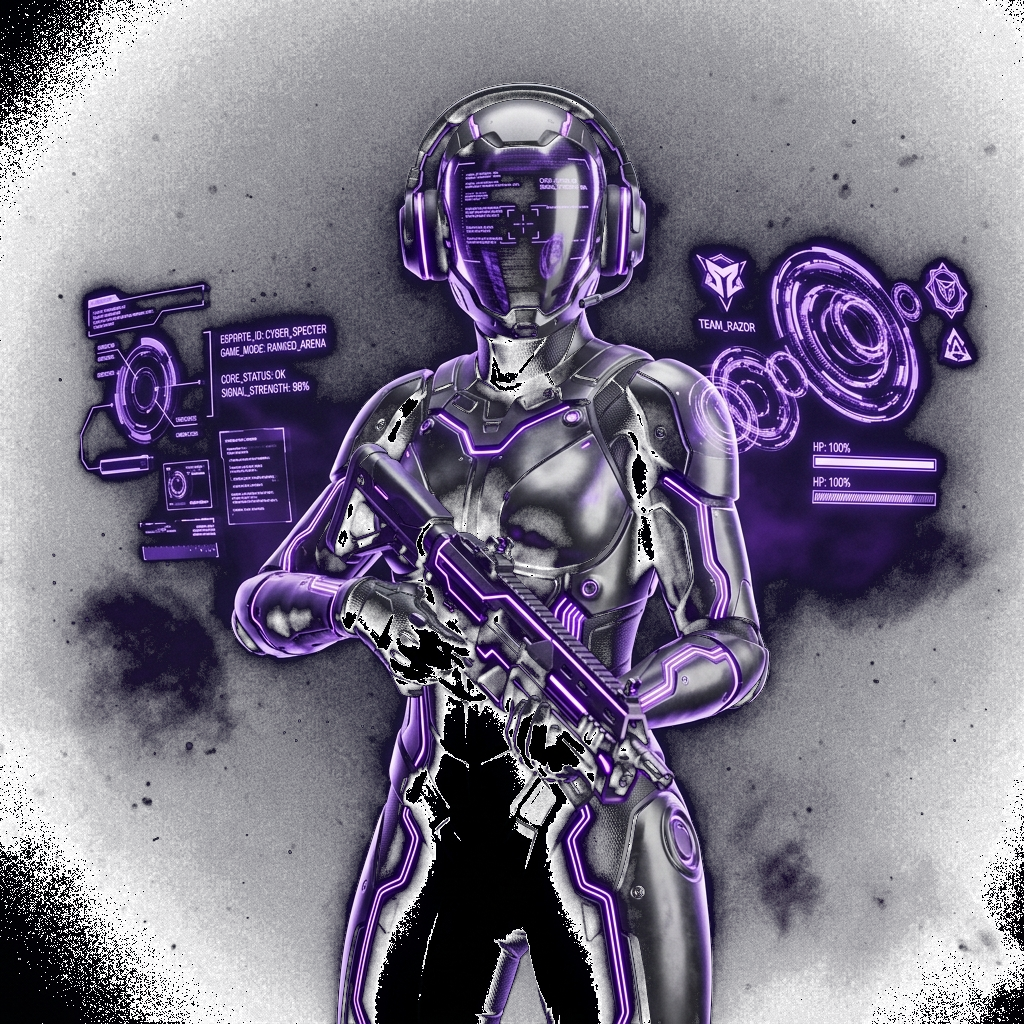
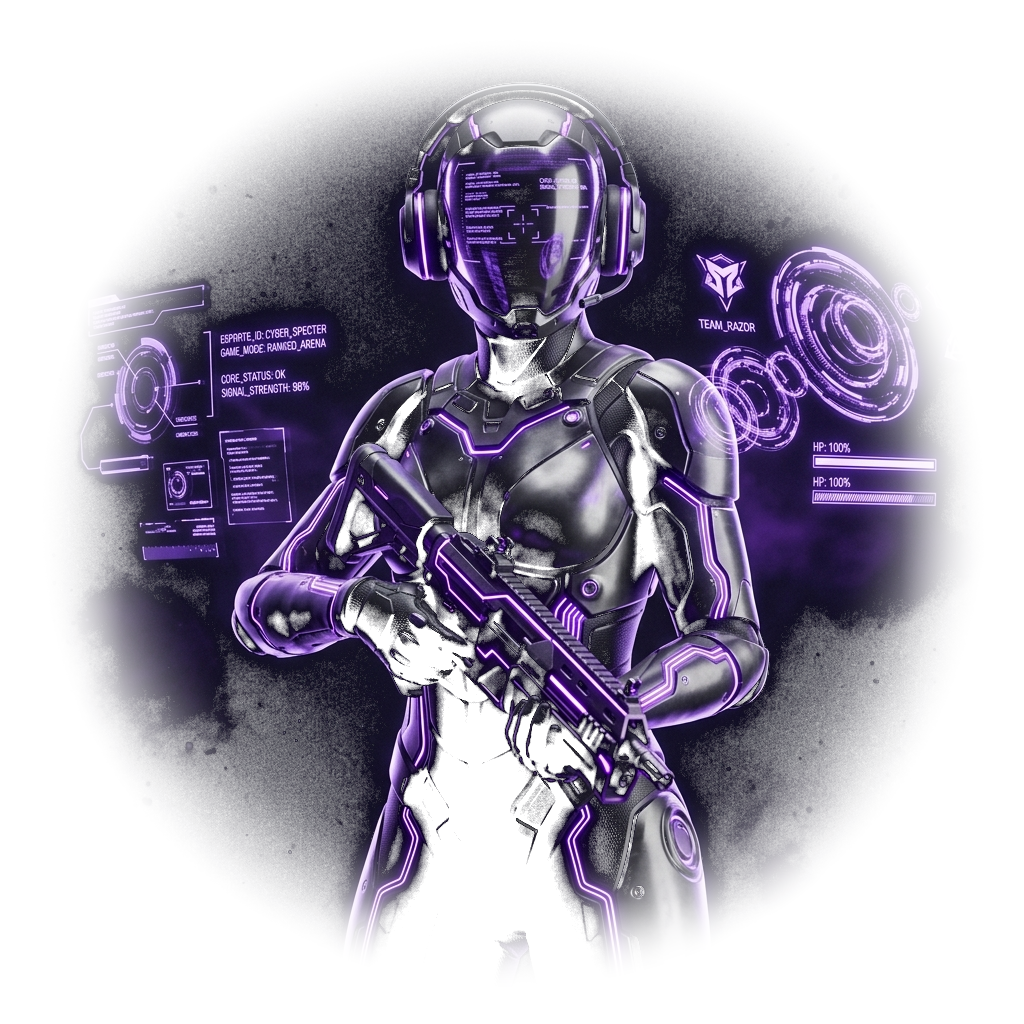
fix(ui): apply seamless radial blending to hero image and verify all services against master document

diff --git a/src/components/client/ClientHomePage.tsx b/src/components/client/ClientHomePage.tsx
@@ -269,14 +269,18 @@ export const ClientHomePage: React.FC<ClientHomePageProps> = ({
               <div className="w-4 h-0.5 bg-purple-500 ml-auto mt-2" />
             </div>
 
-            {/* Futuristic Tech-Gaming Operative Visual */}
-            <div className="relative z-0 flex items-center justify-center">
+            {/* Futuristic Tech-Gaming Operative Visual - Seamlessly Blended */}
+            <div className="relative z-0 flex items-center justify-center w-full max-w-[430px]">
+              {/* Diffuse ambient purple glow behind operative */}
+              <div className="absolute inset-0 bg-gradient-to-t from-purple-700/40 via-fuchsia-600/20 to-transparent blur-[70px] rounded-full pointer-events-none transform scale-110" />
+              
               <img
                 src="/assets/hires/vib_tech_gaming_hero.png"
                 alt="VIB Tech-Gaming Operative"
-                className="relative z-10 w-full max-w-[430px] h-auto object-contain drop-shadow-[0_0_35px_rgba(168,85,247,0.7)] transform scale-105"
-                onError={(e) => {
-                  (e.target as HTMLImageElement).src = '/assets/hires/vib_tech_gaming_hero.jpg';
+                className="relative z-10 w-full h-auto object-contain drop-shadow-[0_0_35px_rgba(168,85,247,0.7)] transform scale-105 select-none pointer-events-none"
+                style={{
+                  maskImage: 'radial-gradient(ellipse 88% 88% at 50% 50%, black 55%, rgba(0,0,0,0.6) 75%, transparent 100%)',
+                  WebkitMaskImage: 'radial-gradient(ellipse 88% 88% at 50% 50%, black 55%, rgba(0,0,0,0.6) 75%, transparent 100%)',
                 }}
               />
             </div>
